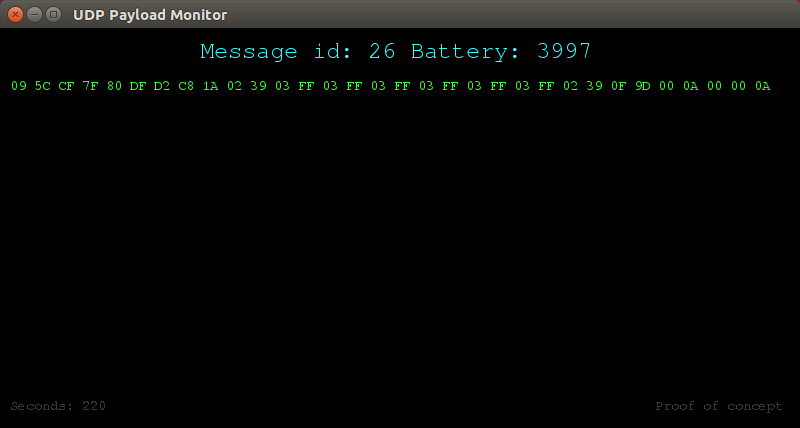
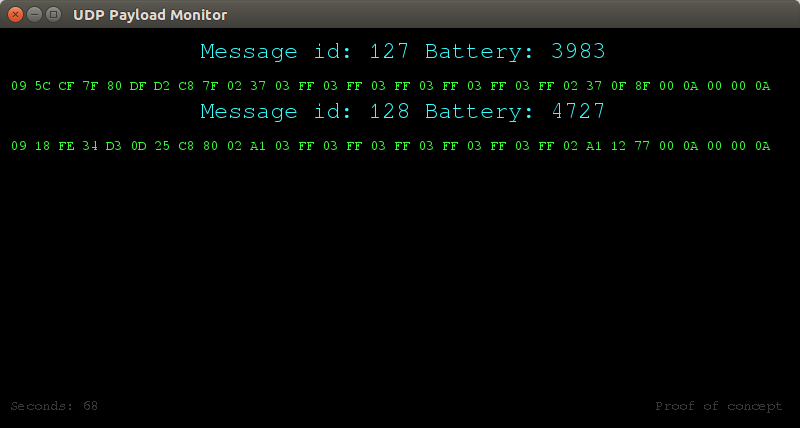
Show multiple sensors

diff --git a/src/udp.c b/src/udp.c
@@ -18,14 +18,65 @@ Glabal as this size is too big for the stack.
 see https://stackoverflow.com/questions/1847789/segmentation-fault-on-large-array-sizes
 Probably time for malloc.
 */
-static char udp_hex_buf[(MSGBUFSIZE * 3) + 1] = "-- -- -- -- -- -- -- -- -- -- -- -- -- -- -- -- -- -- -- -- -- -- -- -- -- -- -- -- -- --";
-static char stats_buffer[64] = "Message id:   Battery:  ";
-static uint8_t rx_buf[MSGBUFSIZE] = {0};
+static char udp_hex_buf[UDP_NUM_SENSORS][(UDP_MSGBUFSIZE * 3) + 1] = {"-- ", "-- ", "-- "};
+static char stats_buffer[UDP_NUM_SENSORS][64] = {"Message id:   Battery:  ", " - ", " - "};
+static uint8_t rx_buf[UDP_MSGBUFSIZE] = {0};
 
 static struct sockaddr_in addr;
 static int fd;
 
-static void renderHex(SDL_Renderer *renderer, int x, int y, char *text,
+// Identified by their mac address: 5ccf7f80dfd2
+static uint8_t sensors[UDP_NUM_SENSORS][6] = {};
+static int32_t sensors_last[UDP_NUM_SENSORS] = {};
+static int32_t sensors_delay[UDP_NUM_SENSORS] = {};
+
+/**
+ * Compares mac addresses.
+ *
+ * returns zero if they are “equal”
+ * see https://www.gnu.org/software/libc/manual/html_node/Comparison-Functions.html
+ *
+ */
+static int8_t compareMacs(uint8_t a[6], uint8_t b[6]) {
+  for (int i = 0; i < 6; i++) {
+    if (a[i] != b[i]) {
+      return 1;
+    }
+  }
+  return 0;
+}
+
+static int8_t sensorNum(PAYLOAD_sensor_t *payload) {
+  for (uint8_t i = 0; i < UDP_NUM_SENSORS; i++) {
+    if (compareMacs(sensors[i], payload->mac) == 0) {
+      // Update the delay in case it changed.
+      sensors_delay[i] = payload->delay;
+      return i;
+    }
+  }
+
+  // Not seen before, so add it to the array.
+  for (uint8_t i = 0; i < UDP_NUM_SENSORS; i++) {
+    if (sensors[i][0] == 0) {
+      for (uint8_t x = 0; x < 6; x++) {
+        sensors[i][x] = payload->mac[x];
+      }
+      sensors_delay[i] = payload->delay;
+      SDL_LogDebug(SDL_LOG_CATEGORY_APPLICATION, "Added: %d - %02X %02X %02X %02X %02X %02X", i,
+               sensors[i][0], sensors[i][1], sensors[i][2], sensors[i][3],
+               sensors[i][4], sensors[i][5]);
+      return i;
+    }
+  }
+
+  return -1;
+}
+
+static void sensorClear(uint8_t num) {
+
+}
+
+static void renderHex(SDL_Renderer *renderer, int x, int y, char *text, uint8_t sensor,
                        TTF_Font *font) {
   int text_width;
   int text_height;
@@ -33,6 +84,9 @@ static void renderHex(SDL_Renderer *renderer, int x, int y, char *text,
   SDL_Color textColor = {55, 255, 55, 0};
   SDL_Rect rect;
   SDL_Texture *texture;
+
+  // Move down for each sensor.
+  y = y + sensor * 60;
 
   surface = TTF_RenderText_Blended(font, text, textColor);
   texture = SDL_CreateTextureFromSurface(renderer, surface);
@@ -48,7 +102,7 @@ static void renderHex(SDL_Renderer *renderer, int x, int y, char *text,
   SDL_DestroyTexture(texture);
 }
 
-static void renderStats(SDL_Renderer *renderer, int x, int y, char *text,
+static void renderStats(SDL_Renderer *renderer, int x, int y, char *text, uint8_t sensor,
                        TTF_Font *font) {
   int text_width;
   int text_height;
@@ -56,6 +110,9 @@ static void renderStats(SDL_Renderer *renderer, int x, int y, char *text,
   SDL_Color textColor = {55, 255, 255, 0};
   SDL_Rect rect;
   SDL_Texture *texture;
+
+  // Move down for each sensor.
+  y = y + sensor * 60;
 
   surface = TTF_RenderText_Blended(font, text, textColor);
   texture = SDL_CreateTextureFromSurface(renderer, surface);
@@ -91,7 +148,7 @@ void UdpInit() {
   memset(&addr, 0, sizeof(addr));
   addr.sin_family = AF_INET;
   addr.sin_addr.s_addr = htonl(INADDR_ANY); /* N.B.: differs from sender */
-  addr.sin_port = htons(SERVER_PORT);
+  addr.sin_port = htons(UDP_SERVER_PORT);
 
   /* Bind to receive address */
   if (bind(fd, (struct sockaddr*)&addr, sizeof(addr)) < 0) {
@@ -100,7 +157,7 @@ void UdpInit() {
   }
 
   /* Use setsockopt() to request that the kernel join a multicast group */
-  mreq.imr_multiaddr.s_addr = inet_addr(SERVER_GROUP);
+  mreq.imr_multiaddr.s_addr = inet_addr(UDP_SERVER_GROUP);
   mreq.imr_interface.s_addr = htonl(INADDR_ANY);
   if (setsockopt(fd, IPPROTO_IP, IP_ADD_MEMBERSHIP, &mreq, sizeof(mreq)) < 0) {
     perror("setsockopt");
@@ -114,15 +171,9 @@ void UdpListen() {
   addrlen = sizeof(addr);
   PAYLOAD_sensor_t payload = {};
 
-  if ((nbytes = recvfrom(fd, rx_buf, MSGBUFSIZE, MSG_DONTWAIT,
+  if ((nbytes = recvfrom(fd, rx_buf, UDP_MSGBUFSIZE, MSG_DONTWAIT,
                           (struct sockaddr*)&addr, &addrlen)) > 0) {
     SDL_LogDebug(SDL_LOG_CATEGORY_APPLICATION, "Received %d bytes: ", nbytes);
-    /* pointer to the first item (0 index) of the output array */
-    char *ptr = &udp_hex_buf[0];
-    for (int i = 0; i < nbytes; i++) {
-        ptr += sprintf (ptr, "%02X ", rx_buf[i]);
-    }
-    SDL_LogDebug(SDL_LOG_CATEGORY_APPLICATION, "%s\n", udp_hex_buf);
 
     /* Unserialize the payload. */
     size_t len = sizeof(PAYLOAD_sensor_t);
@@ -134,11 +185,38 @@ void UdpListen() {
     PAYLOAD_unserialize(&payload, sbuf);
     SDL_LogDebug(SDL_LOG_CATEGORY_APPLICATION, "Message id: %d\n", payload.message_id);
     SDL_LogDebug(SDL_LOG_CATEGORY_APPLICATION, "Batt: %d\n", payload.batt);
-    sprintf(stats_buffer, "Message id: %d Battery: %d", payload.message_id, payload.batt);
+
+    int8_t sensor = sensorNum(&payload);
+    if (sensor == -1) {
+      // Couldn't assign an led to the sensor.
+      sensor = 0; // Override the first one for now.
+    }
+    SDL_LogDebug(SDL_LOG_CATEGORY_APPLICATION, "Sensor: %d\n", sensor);
+
+    // Remember when we last heard from this sensor.
+    int32_t now = SDL_GetTicks();
+    sensors_last[sensor] = now;
+
+    /* pointer to the first item (0 index) of the output array */
+    char *ptr = &udp_hex_buf[sensor][0];
+    for (int i = 0; i < nbytes; i++) {
+        ptr += sprintf (ptr, "%02X ", rx_buf[i]);
+    }
+    SDL_LogDebug(SDL_LOG_CATEGORY_APPLICATION, "%s\n", udp_hex_buf[sensor]);
+
+    sprintf(stats_buffer[sensor], "Message id: %d Battery: %d", payload.message_id, payload.batt);
   }
 }
 
 void UdpRender(SDL_Renderer *renderer, TTF_Font *font_small, TTF_Font *font_medium) {
-  renderStats(renderer, 200, 10, stats_buffer, font_medium);
-  renderHex(renderer, 10, 50, udp_hex_buf, font_small);
+  int32_t now = SDL_GetTicks();
+  for (uint8_t i = 0; i < UDP_NUM_SENSORS; i++) {
+    // If longer than the delay time clear the led for that sensor.
+    if (now - sensors_last[i] > (sensors_delay[i] + UDP_DELAY_EXTRA) * 1000) {
+      sensorClear(i);
+    } else {
+      renderStats(renderer, 200, 10, stats_buffer[i], i, font_medium);
+      renderHex(renderer, 10, 50, udp_hex_buf[i], i, font_small);
+    }
+  }
 }

diff --git a/inc/udp.h b/inc/udp.h
@@ -7,9 +7,11 @@ extern "C" {
 #include <SDL2/SDL.h>
 #include <SDL2/SDL_ttf.h>
 
-#define SERVER_PORT 12345
-#define SERVER_GROUP "239.0.0.58"
-#define MSGBUFSIZE 64
+#define UDP_SERVER_PORT 12345
+#define UDP_SERVER_GROUP "239.0.0.58"
+#define UDP_MSGBUFSIZE 64
+#define UDP_NUM_SENSORS 3
+#define UDP_DELAY_EXTRA 5 // Number of seconds extra to wait to hear from the sensor again.
 
 void UdpInit();
 void UdpListen();

diff --git a/src/main.c b/src/main.c
@@ -20,7 +20,7 @@ int main(int argc, char **argv) {
   uint32_t currentTime = 0;
   uint32_t lastFrameTime = 0;
 
-  SDL_LogSetPriority(SDL_LOG_CATEGORY_APPLICATION, SDL_LOG_PRIORITY_DEBUG);
+  //SDL_LogSetPriority(SDL_LOG_CATEGORY_APPLICATION, SDL_LOG_PRIORITY_DEBUG);
 
   if (argc == 1) {
     // The font is not part of the binary, so must point to a font on the system.
